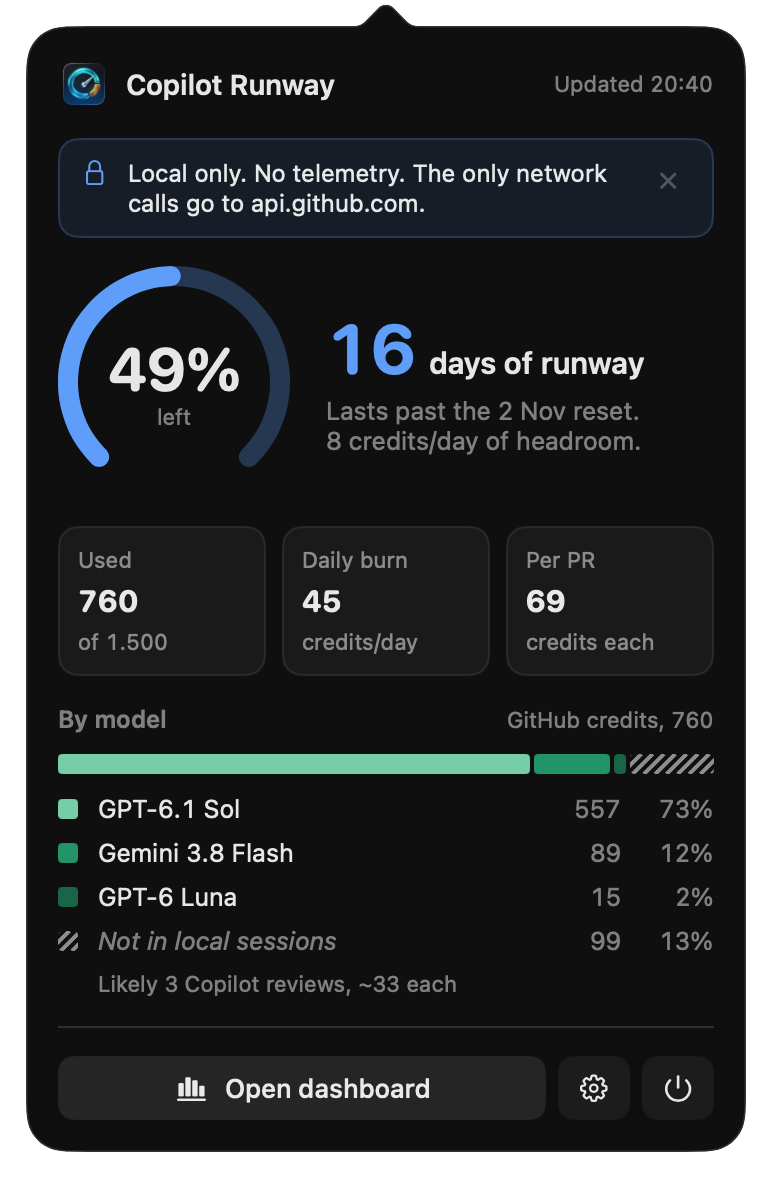
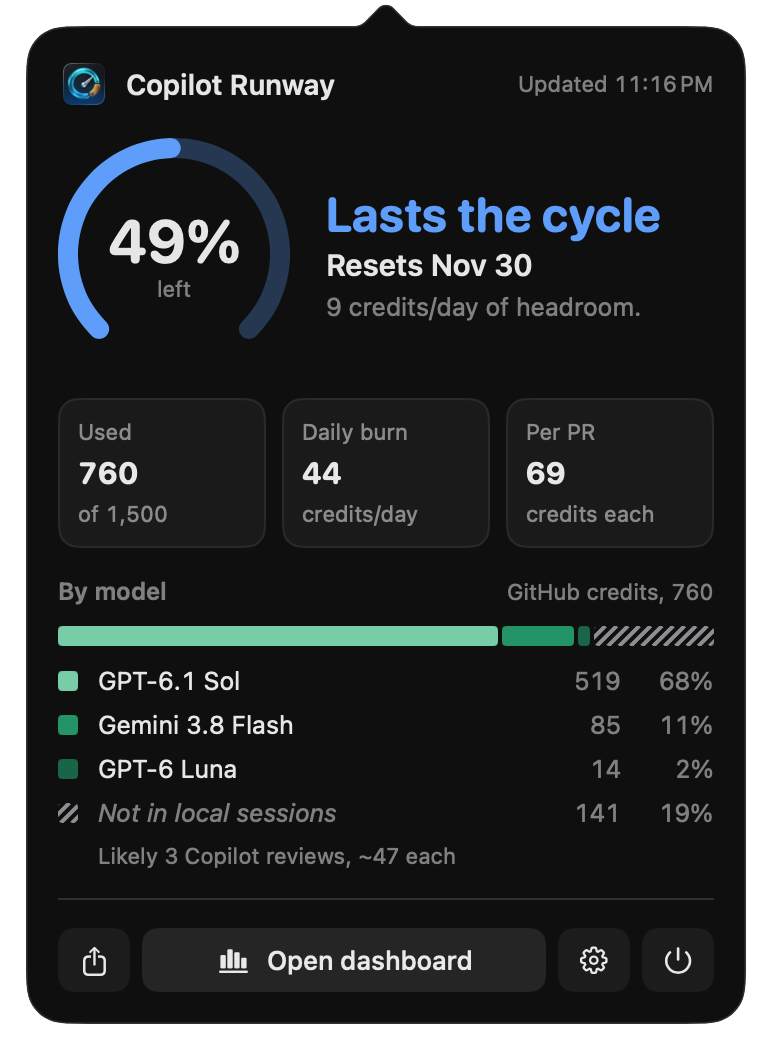
Update the landing page for 1.4.0
New dark demo screenshots of the menu bar, popover and dashboard, in en_US format and without the first-launch banner. Copy for the right-click menu, Share and Update buttons, runway notifications, Settings, the last-cycle line, Portkey and the current network calls.

diff --git a/page/index.html b/page/index.html
@@ -51,35 +51,44 @@
         <p class="note">Free and open source (MIT). macOS 26 or later. <a href="https://github.com/wilsonfaustino/copilot-runway/releases/latest">Latest release</a>.</p>
       </div>
       <div class="hero-gauge">
-        <svg viewBox="0 0 24 24" width="380" height="380" role="img" aria-label="Runway gauge at 49 percent"><path d="M5.99 18.01 A8.5 8.5 0 1 1 18.01 18.01" fill="none" stroke="#26C8DF" stroke-opacity="0.18" stroke-width="2.4" stroke-linecap="round"></path><path d="M5.99 18.01 A8.5 8.5 0 1 1 18.01 18.01" fill="none" stroke="#26C8DF" stroke-width="2.4" stroke-linecap="round" stroke-dasharray="19.62 40.05" id="gauge-arc"></path><text id="gauge-percent" x="12" y="12.4" text-anchor="middle" font-size="4.6" font-weight="700" fill="#E8EAED" font-family="ui-rounded, -apple-system, sans-serif">49%</text><text x="12" y="15.4" text-anchor="middle" font-size="1.6" fill="#B9C0C9" font-family="-apple-system, sans-serif">16 days left</text></svg>
+        <svg viewBox="0 0 24 24" width="380" height="380" role="img" aria-label="Runway gauge at 49 percent"><path d="M5.99 18.01 A8.5 8.5 0 1 1 18.01 18.01" fill="none" stroke="#26C8DF" stroke-opacity="0.18" stroke-width="2.4" stroke-linecap="round"></path><path d="M5.99 18.01 A8.5 8.5 0 1 1 18.01 18.01" fill="none" stroke="#26C8DF" stroke-width="2.4" stroke-linecap="round" stroke-dasharray="19.62 40.05" id="gauge-arc"></path><text id="gauge-percent" x="12" y="12.4" text-anchor="middle" font-size="4.6" font-weight="700" fill="#E8EAED" font-family="ui-rounded, -apple-system, sans-serif">49%</text><text x="12" y="15.4" text-anchor="middle" font-size="1.6" fill="#B9C0C9" font-family="-apple-system, sans-serif">Lasts the cycle</text></svg>
       </div>
     </section>
 
     <section class="runout reveal" aria-label="Run-out insight">
-      <p class="runout-quote">"At this pace you run out on Oct 21,<br><span class="warn">10 days before the reset</span> on Nov 1."</p>
-      <p class="runout-text">One sentence, updated every 5 minutes. You see it while you can still change how you work.</p>
-      <a href="assets/dashboard-typical.png"><img class="shot-dashboard" src="assets/dashboard-typical.png" width="1520" height="1180" alt="The Copilot Runway dashboard with a run-out banner, four summary cards and a chart of daily credit burn."></a>
+      <p class="runout-quote">"At this pace your credits last past the reset on Nov 30,<br><span class="ok">with 9 credits a day of headroom</span>."</p>
+      <p class="runout-text">One sentence, updated every 5 minutes. When you burn too fast, it gives the run-out date instead, for example "At this pace you run out on Oct 21, 10 days before the reset on Nov 1." You see it while you can still change how you work. Runway notifications tell you at 80% used, when the runway is short or critical, and at the limit.</p>
+      <a href="assets/dashboard-typical.png"><img class="shot-dashboard" src="assets/dashboard-typical.png" width="1520" height="1280" alt="The Copilot Runway dashboard with the runway sentence, four summary cards, and a chart of daily credit burn with a dashed line for last cycle."></a>
     </section>
 
     <section class="cards" aria-label="What it shows">
       <div class="card">
         <h2>Menu bar</h2>
-        <p>Percent left and days of runway, for example <code>49% · 16d</code>. The gauge turns orange when you will run out before the reset, and red when less than a day is left.</p>
-        <img class="shot-menubar" src="assets/menubar-typical.png" width="220" height="56" alt="Menu bar item showing 49% credits left and 16 days of runway next to the gauge.">
+        <p>Percent left and days of runway, for example <code>48% · 12d</code>. When the credits last past the reset, it shows only the percent. The gauge turns orange when you will run out before the reset, and red when less than a day is left. Right-click or Control-click the title for Refresh, Copy Summary, Open Dashboard, Settings, Check for Updates and Quit.</p>
+        <img class="shot-menubar" src="assets/menubar-typical.png" width="154" height="52" alt="Menu bar item with a blue runway gauge and the text 49%.">
       </div>
       <div class="card">
         <h2>Popover</h2>
-        <p>The run-out date, average daily burn, credits per PR authored and credits per model.</p>
-        <img class="shot-popover" src="assets/popover-typical.png" width="772" height="1178" alt="The Copilot Runway popover with a gauge at 49%, 16 days of runway, three summary cards and credits per model.">
+        <p>The run-out date, average daily burn, credits per PR authored and credits per model. The Share button opens the macOS share menu with an image of the popover, or copies the image or the summary text. The image stays in memory. When a new version is out and you installed with Homebrew, an Update button runs Homebrew and relaunches the app after the upgrade. Otherwise, the popover gives you the brew command to copy.</p>
+        <img class="shot-popover" src="assets/popover-typical.png" width="772" height="1050" alt="The Copilot Runway popover with a gauge at 49% and the text Lasts the cycle, three summary cards, credits per model, and buttons for Share, Open dashboard, Settings and Quit.">
       </div>
       <div class="card">
         <h2>Dashboard</h2>
-        <p>Credits by kind of work (implementation, debugging, review and more), by model, by agent and by project, plus the top sessions of the cycle. "Copy summary" puts a plain-text report on the clipboard for a quota request.</p>
+        <p>Credits by kind of work (implementation, debugging, review and more), by model, by agent and by project, plus the five top sessions of the cycle. A dashed line shows last cycle, and a sentence compares the same days. "Copy summary" puts a plain-text report on the clipboard for a quota request.</p>
+      </div>
+      <div class="card">
+        <h2>Portkey</h2>
+        <p>If your Pi, omp or OpenCode sessions go through Portkey, the popover has a spend card and the dashboard has a section, both in USD. The app reads the cost from the session files and makes no call to Portkey. Set a monthly budget in Settings, and the gauge combines Copilot (in USD) and Portkey in two tones.</p>
+      </div>
+      <div class="card">
+        <h2>Settings</h2>
+        <p>The gauge shows credits left or credits spent. Count only weekdays and mark days off, so weekends and holidays do not use up runway. Turn on runway notifications and colorblind-safe task colors.</p>
       </div>
     </section>
 
     <section class="runout" aria-label="Credits by project and top sessions">
-      <a href="assets/dashboard-projects.png"><img class="shot-dashboard" src="assets/dashboard-projects.png" width="1520" height="1364" alt="The Copilot Runway dashboard with credits by project and the five top sessions of the cycle."></a>
+      <p class="runout-text">See which projects and sessions used the credits. Session labels have a date, an agent, a model and a task, never prompt text or titles.</p>
+      <a href="assets/dashboard-projects.png"><img class="shot-dashboard" src="assets/dashboard-projects.png" width="1520" height="1410" alt="The Copilot Runway dashboard with credits by project, and the five most expensive sessions of the cycle with their date, agent, model and task."></a>
     </section>
 
     <section class="setup" aria-label="Setup">
@@ -97,7 +106,7 @@
 
     <section class="privacy" id="privacy">
       <h2>Local only. No telemetry.</h2>
-      <p>The only network calls go to api.github.com: your credits every 5 minutes, outcome counts if you set an organization, and a release check once a day. Your <code>gh</code> token stays in memory for one request. The app does not decode or keep prompt or answer text.</p>
+      <p>The app has no backend. Its own network calls go to api.github.com: your credits every 5 minutes and when the Mac wakes, outcome counts only after you set an organization, and a release check on launch, every 24 hours while the app runs, and when you choose Check for Updates. The release check sends no token. Your <code>gh</code> token stays in memory for one credits request. The Update button runs Homebrew on your Mac, and Homebrew makes its own network calls. Session files stay on your Mac, and the app does not decode or keep prompt or answer text.</p>
     </section>
 
     <section class="install" aria-label="Install">

diff --git a/page/style.css b/page/style.css
@@ -166,6 +166,11 @@ h1 {
   font-size: 1.2em;
 }
 
+.ok {
+  color: #64A8FF;
+  font-size: 1.2em;
+}
+
 .runout-text {
   font-size: 18px;
   line-height: 1.5;
@@ -219,7 +224,7 @@ h1 {
 }
 
 .shot-menubar {
-  width: 110px;
+  width: 77px;
 }
 
 .card .shot-popover {
